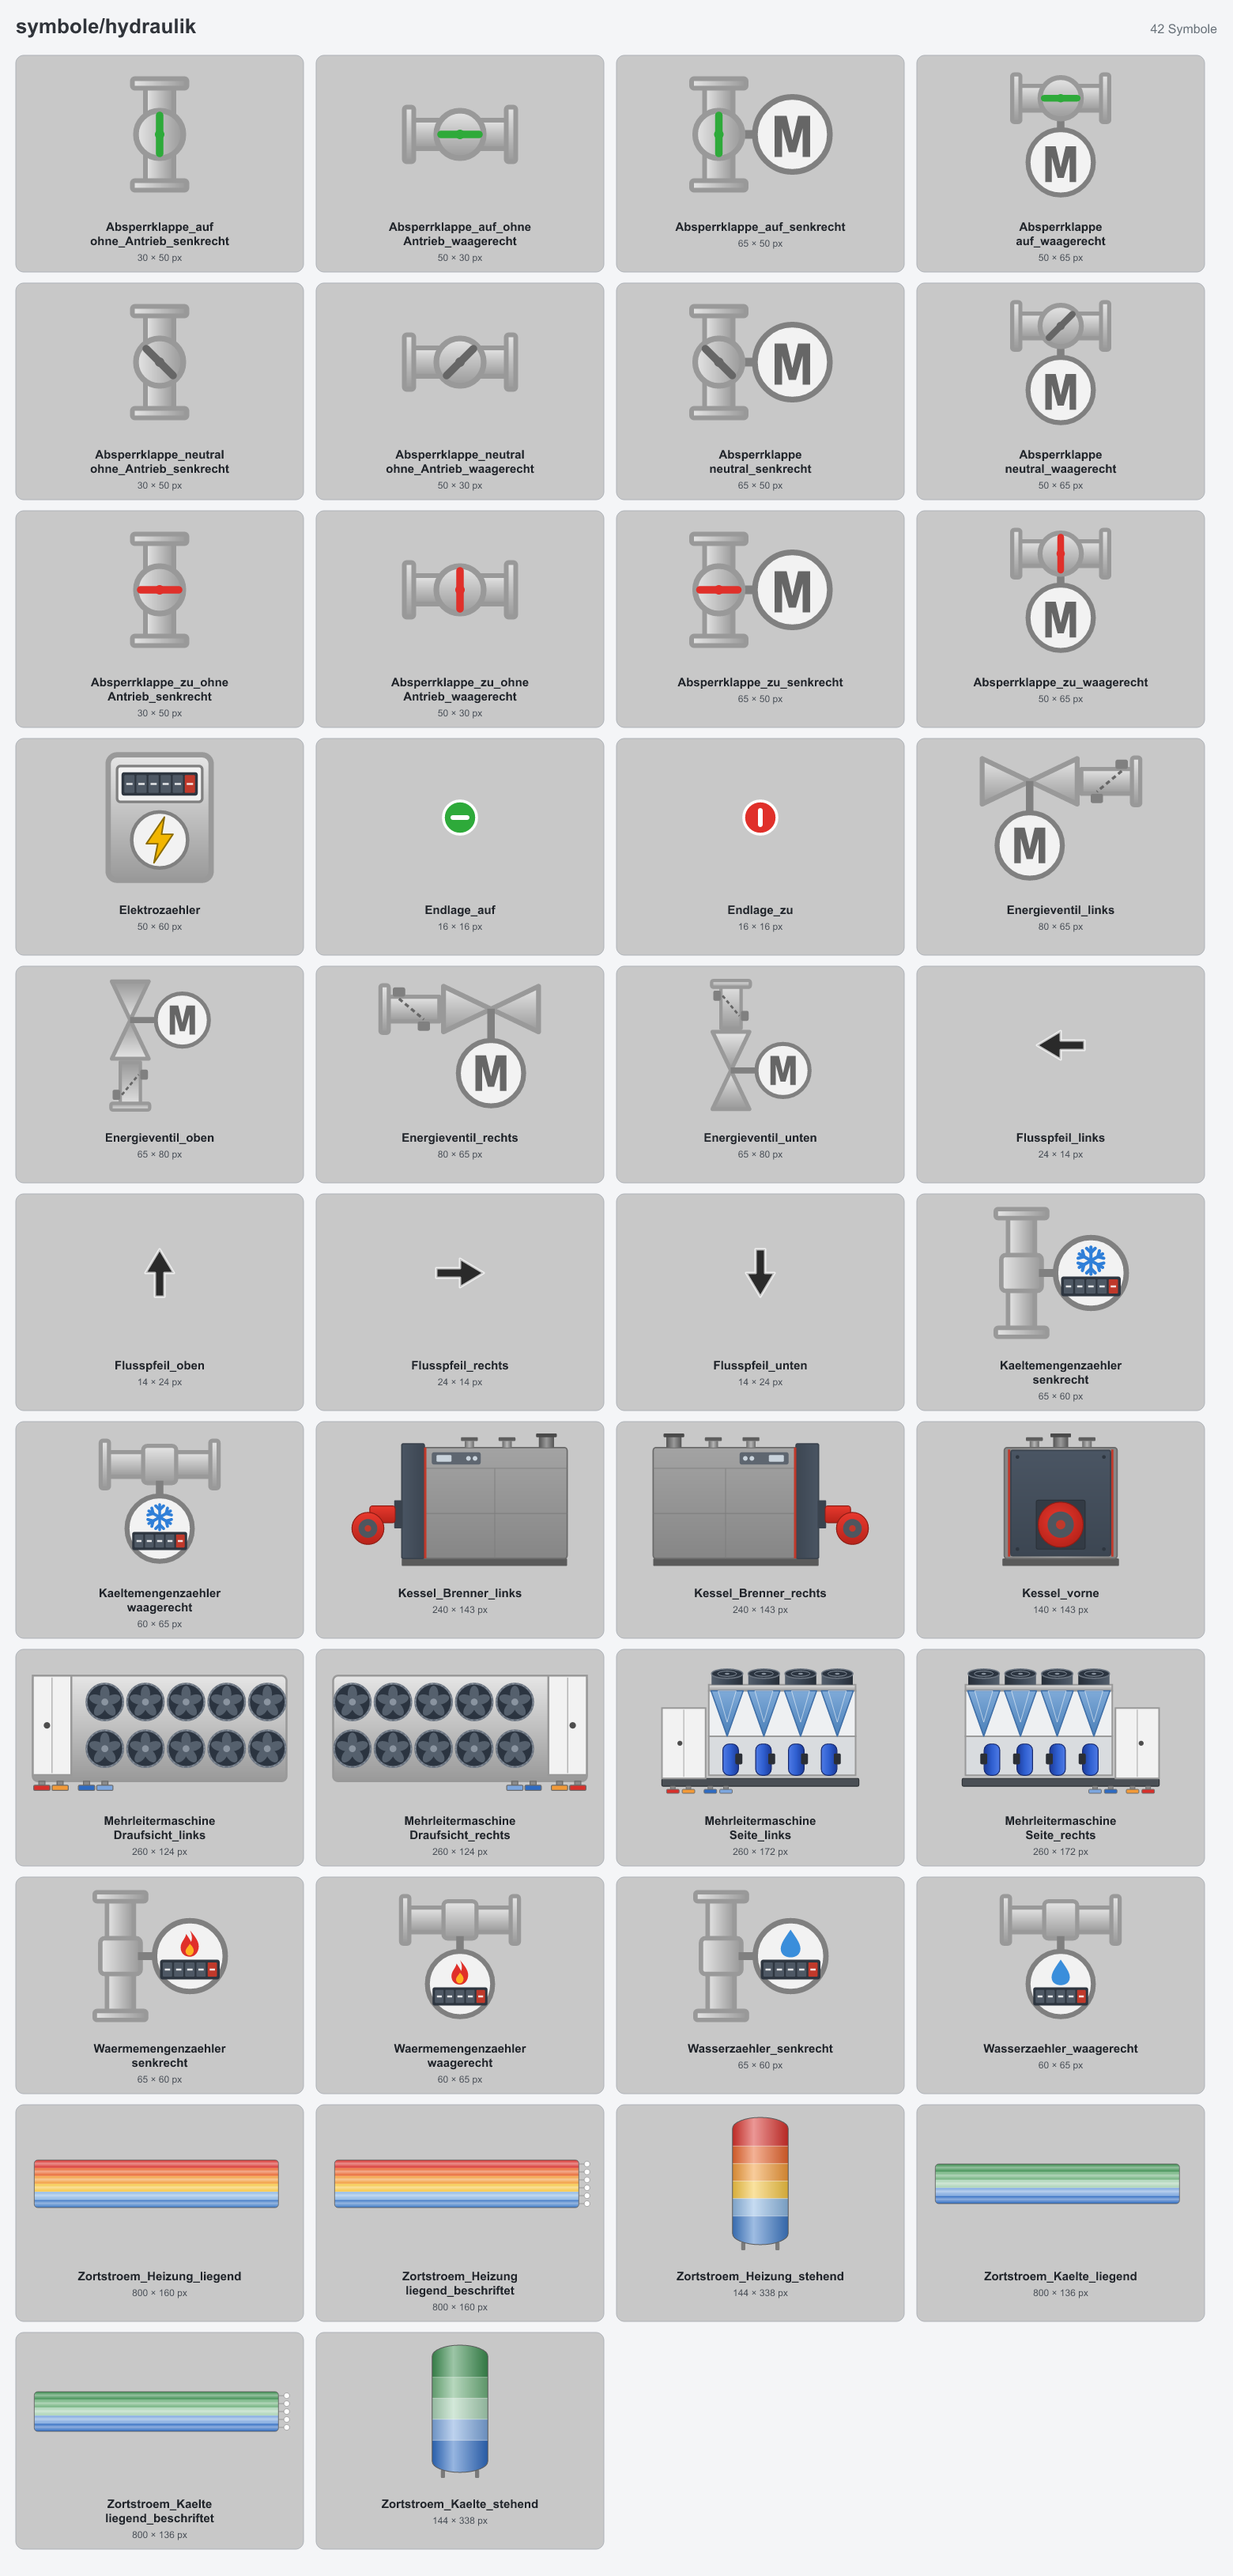
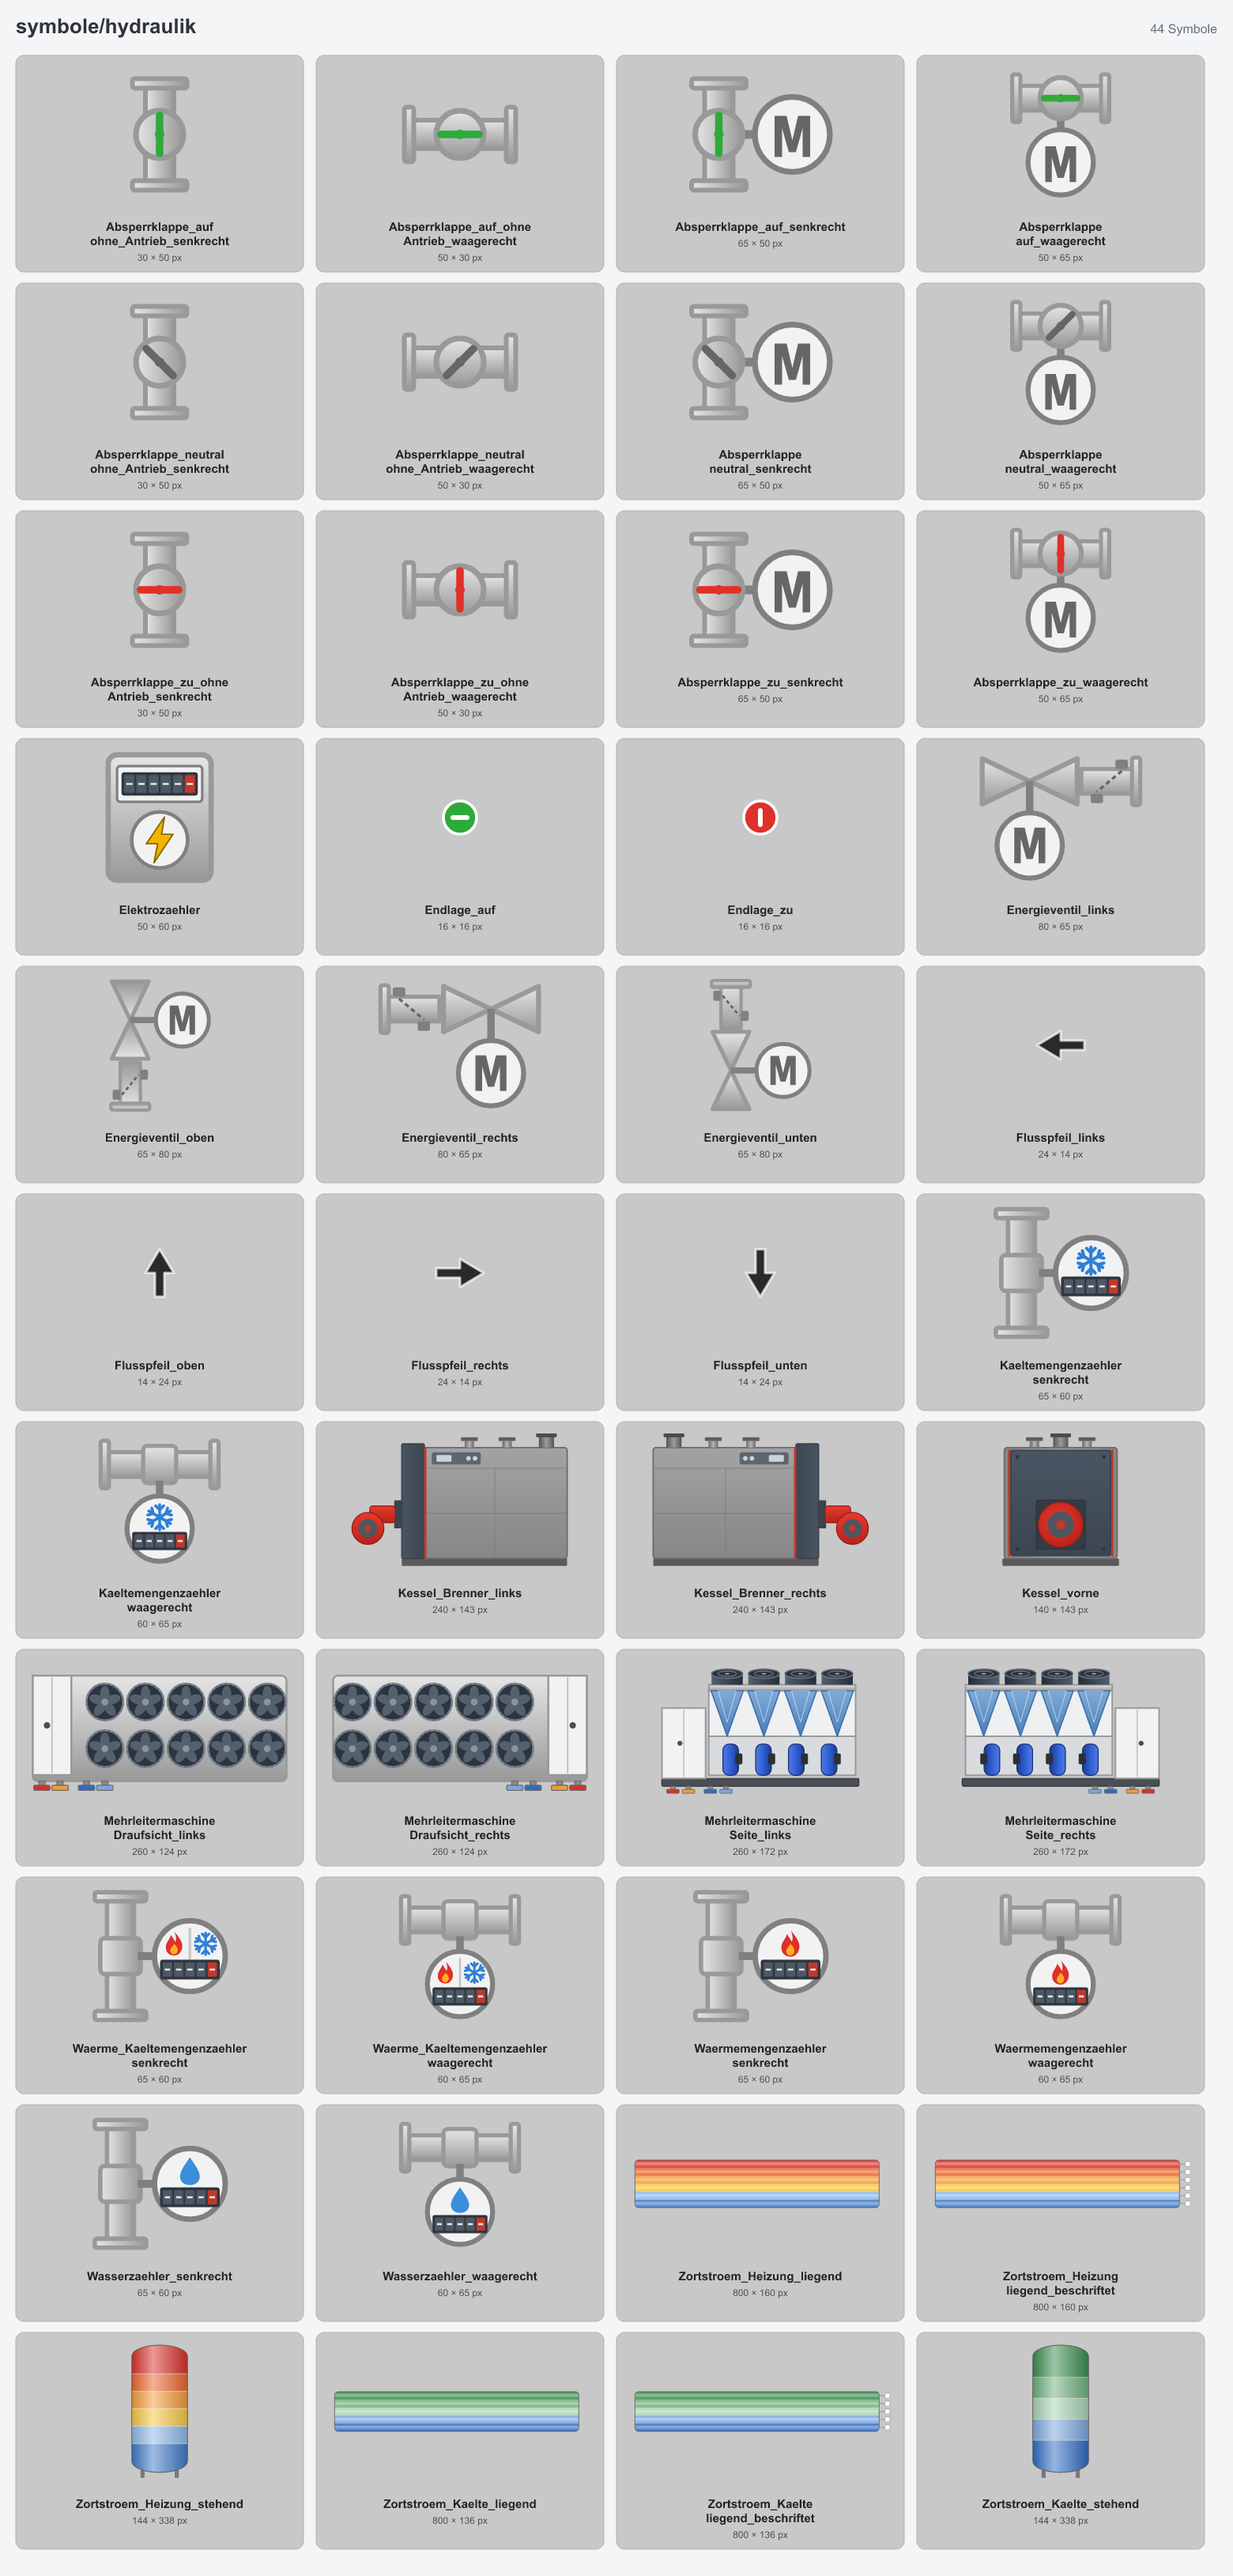
Kombinierter Wärme-/Kältemengenzähler waagerecht und senkrecht
Symbolkatalog und Übersichtsgrafik aktualisiert.

diff --git a/docs/SYMBOLKATALOG.md b/docs/SYMBOLKATALOG.md
@@ -89,6 +89,7 @@ Flanschfarben: Heizen VL `#D7302B`, RL `#F29A38`; Kühlen VL `#2E6BC2`, RL `#7CA
 Mit angedeutetem Rollenzählwerk (fünf Rollen, letzte rot).
 
 - Wärmemengenzähler (rote Flamme), Kältemengenzähler (blaue Schneeflocke), Wasserzähler (blauer Tropfen): 60 × 65 waagerecht, 65 × 60 senkrecht, Rohrachse 15.
+- Kombinierter Wärme-/Kältemengenzähler (`Waerme_Kaeltemengenzaehler_waagerecht` / `_senkrecht`): Flamme und Schneeflocke nebeneinander im Zählwerkkreis, gleiche Größe und Anschlüsse wie die Einzelzähler.
 - Elektrozähler 50 × 60, Rollenzählwerk mit sechs Stellen oben, gelber Blitz unten.
 
 ### Pumpe
